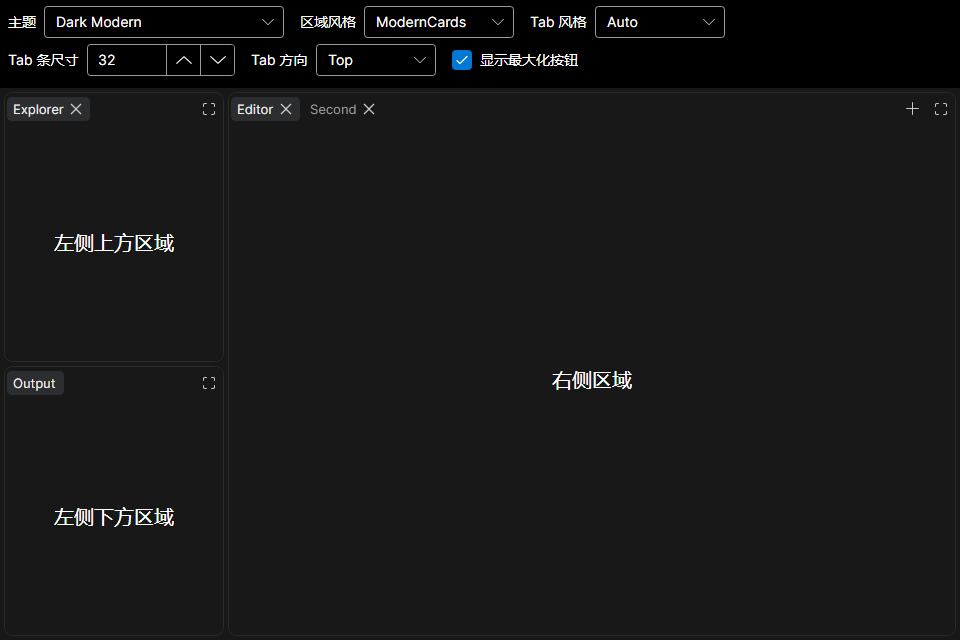
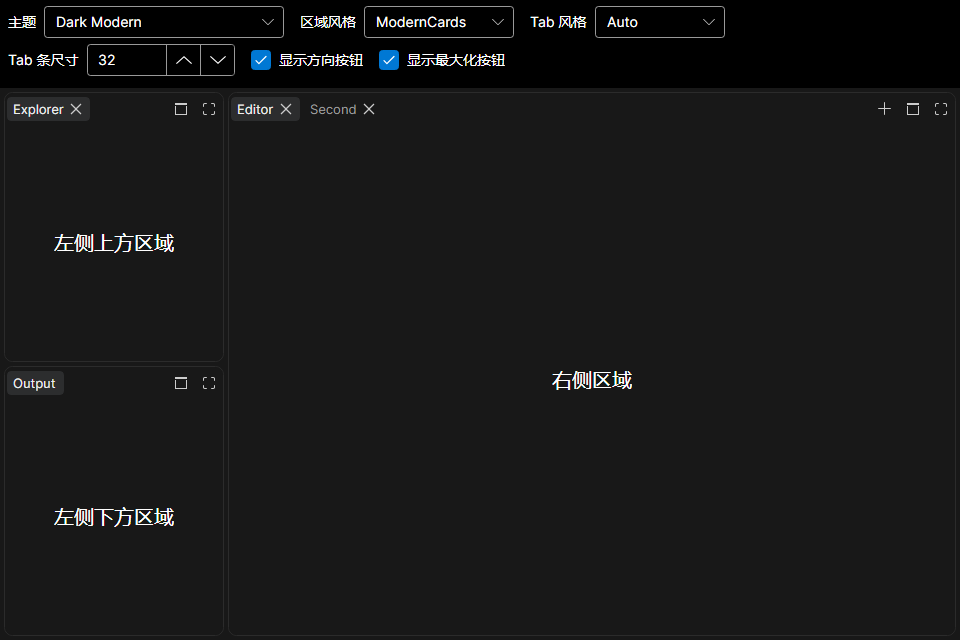
Add trailing tab placement control

Changed region(s): [[0.25, 0.0625, 0.5938, 0.125], [0.9375, 0.1562, 0.9688, 0.1875]]

diff --git a/src/GOZA.Dock/Controls/DockRegion.cs b/src/GOZA.Dock/Controls/DockRegion.cs
@@ -23,6 +23,8 @@ namespace GOZA.Dock.Controls;
 [TemplatePart(PartContentHost, typeof(ContentControl), IsRequired = true)]
 [TemplatePart(PartHeaderHost, typeof(Control), IsRequired = true)]
 [TemplatePart(PartChromeHost, typeof(Control), IsRequired = true)]
+[TemplatePart(PartTabPlacementButton, typeof(DockHeaderButton), IsRequired = true)]
+[TemplatePart(PartTabPlacementIcon, typeof(DockChromeIcon), IsRequired = true)]
 [TemplatePart(PartMaximizeButton, typeof(DockHeaderButton), IsRequired = true)]
 [TemplatePart(PartMaximizeIcon, typeof(DockChromeIcon), IsRequired = true)]
 [TemplatePart(PartDropHint, typeof(Border), IsRequired = true)]
@@ -32,6 +34,8 @@ public sealed class DockRegion : TemplatedControl, IDockRegionSession
     internal const string PartContentHost = "PART_ContentHost";
     internal const string PartHeaderHost = "PART_HeaderHost";
     internal const string PartChromeHost = "PART_ChromeHost";
+    internal const string PartTabPlacementButton = "PART_TabPlacementButton";
+    internal const string PartTabPlacementIcon = "PART_TabPlacementIcon";
     internal const string PartMaximizeButton = "PART_MaximizeButton";
     internal const string PartMaximizeIcon = "PART_MaximizeIcon";
     internal const string PartDropHint = "PART_DropHint";
@@ -86,6 +90,9 @@ public sealed class DockRegion : TemplatedControl, IDockRegionSession
     public static readonly StyledProperty<bool> ShowMaximizeButtonProperty =
         AvaloniaProperty.Register<DockRegion, bool>(nameof(ShowMaximizeButton), true);
 
+    public static readonly StyledProperty<bool> ShowTabPlacementButtonProperty =
+        AvaloniaProperty.Register<DockRegion, bool>(nameof(ShowTabPlacementButton), true);
+
     public static readonly StyledProperty<bool> CanMaximizeProperty =
         AvaloniaProperty.Register<DockRegion, bool>(nameof(CanMaximize), true);
 
@@ -110,6 +117,8 @@ public sealed class DockRegion : TemplatedControl, IDockRegionSession
     private ContentControl? _contentHost;
     private Control? _headerHost;
     private Control? _chromeHost;
+    private DockHeaderButton? _tabPlacementButton;
+    private DockChromeIcon? _tabPlacementIcon;
     private DockHeaderButton? _maximizeButton;
     private DockChromeIcon? _maximizeIcon;
     private Border? _dropHint;
@@ -134,6 +143,8 @@ public sealed class DockRegion : TemplatedControl, IDockRegionSession
         HeaderContentProperty.Changed.AddClassHandler<DockRegion>((region, _) =>
             region.UpdateHeaderState());
         ShowMaximizeButtonProperty.Changed.AddClassHandler<DockRegion>((region, _) =>
+            region.UpdateHeaderState());
+        ShowTabPlacementButtonProperty.Changed.AddClassHandler<DockRegion>((region, _) =>
             region.UpdateHeaderState());
         CanMaximizeProperty.Changed.AddClassHandler<DockRegion>((region, change) =>
             region.OnCanMaximizeChanged(change.NewValue is true));
@@ -253,6 +264,16 @@ public sealed class DockRegion : TemplatedControl, IDockRegionSession
         set => SetValue(ShowMaximizeButtonProperty, value);
     }
 
+    /// <summary>
+    /// Shows the built-in tab-placement action at the trailing edge of the header.
+    /// Clicking it cycles Top, Right, Bottom, and Left. Defaults to true.
+    /// </summary>
+    public bool ShowTabPlacementButton
+    {
+        get => GetValue(ShowTabPlacementButtonProperty);
+        set => SetValue(ShowTabPlacementButtonProperty, value);
+    }
+
     /// <summary>Allows this region to fill its containing <see cref="DockShell"/>.</summary>
     public bool CanMaximize
     {
@@ -304,6 +325,8 @@ public sealed class DockRegion : TemplatedControl, IDockRegionSession
         _contentHost = e.NameScope.Get<ContentControl>(PartContentHost);
         _headerHost = e.NameScope.Get<Control>(PartHeaderHost);
         _chromeHost = e.NameScope.Get<Control>(PartChromeHost);
+        _tabPlacementButton = e.NameScope.Get<DockHeaderButton>(PartTabPlacementButton);
+        _tabPlacementIcon = e.NameScope.Get<DockChromeIcon>(PartTabPlacementIcon);
         _maximizeButton = e.NameScope.Get<DockHeaderButton>(PartMaximizeButton);
         _maximizeIcon = e.NameScope.Get<DockChromeIcon>(PartMaximizeIcon);
         _dropHint = e.NameScope.Get<Border>(PartDropHint);
@@ -634,12 +657,16 @@ public sealed class DockRegion : TemplatedControl, IDockRegionSession
         PseudoClasses.Set(
             ":close-button-selected-or-pointerover",
             CloseButtonDisplayMode == DockTabCloseButtonDisplayMode.SelectedOrPointerOver);
+        UpdateTabPlacementIcon();
     }
 
     private void UpdateHeaderState()
     {
         var hasTabs = GetItemCount() > 0;
-        var hasChrome = ShowAddButton || ShowMaximizeButton || HeaderContent is not null;
+        var hasChrome = ShowAddButton
+                        || ShowTabPlacementButton
+                        || ShowMaximizeButton
+                        || HeaderContent is not null;
         var showHeader = hasTabs || hasChrome;
 
         PseudoClasses.Set(":empty", !hasTabs);
@@ -656,6 +683,8 @@ public sealed class DockRegion : TemplatedControl, IDockRegionSession
 
     private void AttachHeaderCommands()
     {
+        if (_tabPlacementButton is not null)
+            _tabPlacementButton.Click += OnTabPlacementButtonClick;
         if (_maximizeButton is not null)
             _maximizeButton.Click += OnMaximizeButtonClick;
         if (_headerHost is not null)
@@ -666,6 +695,8 @@ public sealed class DockRegion : TemplatedControl, IDockRegionSession
 
     private void DetachHeaderCommands()
     {
+        if (_tabPlacementButton is not null)
+            _tabPlacementButton.Click -= OnTabPlacementButtonClick;
         if (_maximizeButton is not null)
             _maximizeButton.Click -= OnMaximizeButtonClick;
         if (_headerHost is not null)
@@ -676,6 +707,32 @@ public sealed class DockRegion : TemplatedControl, IDockRegionSession
     {
         e.Handled = true;
         ToggleMaximize();
+    }
+
+    private void OnTabPlacementButtonClick(object? sender, Avalonia.Interactivity.RoutedEventArgs e)
+    {
+        e.Handled = true;
+        SetCurrentValue(TabStripPlacementProperty, TabStripPlacement switch
+        {
+            DockTabStripPlacement.Top => DockTabStripPlacement.Right,
+            DockTabStripPlacement.Right => DockTabStripPlacement.Bottom,
+            DockTabStripPlacement.Bottom => DockTabStripPlacement.Left,
+            _ => DockTabStripPlacement.Top
+        });
+    }
+
+    private void UpdateTabPlacementIcon()
+    {
+        if (_tabPlacementIcon is null)
+            return;
+
+        _tabPlacementIcon.Kind = TabStripPlacement switch
+        {
+            DockTabStripPlacement.Right => DockChromeIconKind.TabPlacementRight,
+            DockTabStripPlacement.Bottom => DockChromeIconKind.TabPlacementBottom,
+            DockTabStripPlacement.Left => DockChromeIconKind.TabPlacementLeft,
+            _ => DockChromeIconKind.TabPlacementTop
+        };
     }
 
     private void OnHeaderPointerPressed(object? sender, PointerPressedEventArgs e)

diff --git a/samples/GOZA.Dock.Minimal/MainViewModel.cs b/samples/GOZA.Dock.Minimal/MainViewModel.cs
@@ -16,8 +16,8 @@ public sealed class MainViewModel : INotifyPropertyChanged
     private VsCodeColorTheme? _colorTheme;
     private DockPanePresentation _panePresentation = DockPanePresentation.ClassicSeams;
     private DockTabPresentation _tabPresentation = DockTabPresentation.Auto;
-    private DockTabStripPlacement _tabStripPlacement = DockTabStripPlacement.Top;
     private bool _showMaximizeButton = true;
+    private bool _showTabPlacementButton = true;
     private double _tabStripSize = DockShell.DefaultTabStripSize;
     private int _nextRightTab = 3;
 
@@ -70,9 +70,6 @@ public sealed class MainViewModel : INotifyPropertyChanged
 
     public IReadOnlyList<DockTabPresentation> TabPresentations { get; } =
         Enum.GetValues<DockTabPresentation>();
-
-    public IReadOnlyList<DockTabStripPlacement> TabStripPlacements { get; } =
-        Enum.GetValues<DockTabStripPlacement>();
 
     public ICommand AddRightTabCommand { get; }
 
@@ -135,20 +132,6 @@ public sealed class MainViewModel : INotifyPropertyChanged
         }
     }
 
-    /// <summary>Applies one tab-strip direction to every region in the minimal sample.</summary>
-    public DockTabStripPlacement TabStripPlacement
-    {
-        get => _tabStripPlacement;
-        set
-        {
-            if (_tabStripPlacement == value)
-                return;
-
-            _tabStripPlacement = value;
-            OnPropertyChanged();
-        }
-    }
-
     public bool ShowMaximizeButton
     {
         get => _showMaximizeButton;
@@ -158,6 +141,19 @@ public sealed class MainViewModel : INotifyPropertyChanged
                 return;
 
             _showMaximizeButton = value;
+            OnPropertyChanged();
+        }
+    }
+
+    public bool ShowTabPlacementButton
+    {
+        get => _showTabPlacementButton;
+        set
+        {
+            if (_showTabPlacementButton == value)
+                return;
+
+            _showTabPlacementButton = value;
             OnPropertyChanged();
         }
     }

diff --git a/src/GOZA.Dock/Controls/DockChromeIcon.cs b/src/GOZA.Dock/Controls/DockChromeIcon.cs
@@ -13,6 +13,10 @@ public enum DockChromeIconKind
     Close,
     Maximize,
     Restore,
+    TabPlacementTop,
+    TabPlacementRight,
+    TabPlacementBottom,
+    TabPlacementLeft,
 }
 
 /// <summary>Small vector icon used by the default dock chrome.</summary>
@@ -66,6 +70,16 @@ public sealed class DockChromeIcon : TemplatedControl
         "C2 5.77614 2.22386 6 2.5 6 H4 C5.10457 6 6 5.10457 6 4 V2.5 " +
         "C6 2.22386 5.77614 2 5.5 2 C5.22386 2 5 2.22386 5 2.5 Z");
 
+    // Compact editor frames with the current tab-strip edge drawn two pixels thick.
+    private static readonly Geometry TabPlacementTopGeometry = Geometry.Parse(
+        "M2 2 H14 V4 H2 Z M2 5 H3 V14 H2 Z M13 5 H14 V14 H13 Z M3 13 H13 V14 H3 Z");
+    private static readonly Geometry TabPlacementRightGeometry = Geometry.Parse(
+        "M12 2 H14 V14 H12 Z M2 2 H11 V3 H3 V13 H11 V14 H2 Z");
+    private static readonly Geometry TabPlacementBottomGeometry = Geometry.Parse(
+        "M2 12 H14 V14 H2 Z M2 2 H14 V3 H3 V11 H2 Z M13 3 H14 V11 H13 Z");
+    private static readonly Geometry TabPlacementLeftGeometry = Geometry.Parse(
+        "M2 2 H4 V14 H2 Z M5 2 H14 V14 H5 V13 H13 V3 H5 Z");
+
     private PathShape? _path;
 
     static DockChromeIcon()
@@ -97,6 +111,10 @@ public sealed class DockChromeIcon : TemplatedControl
                 DockChromeIconKind.Close => CloseGeometry,
                 DockChromeIconKind.Maximize => MaximizeGeometry,
                 DockChromeIconKind.Restore => RestoreGeometry,
+                DockChromeIconKind.TabPlacementTop => TabPlacementTopGeometry,
+                DockChromeIconKind.TabPlacementRight => TabPlacementRightGeometry,
+                DockChromeIconKind.TabPlacementBottom => TabPlacementBottomGeometry,
+                DockChromeIconKind.TabPlacementLeft => TabPlacementLeftGeometry,
                 _ => AddGeometry,
             };
         }

diff --git a/docs/3.0.6/api-reference.md b/docs/3.0.6/api-reference.md
@@ -115,6 +115,7 @@ One tab region. It owns selection, view realization, tab drag/drop, and close re
 | `TabClosedCommand` | `ICommand?` | `null` | **Notification after the fact.** The library has already removed the tab and evicted its cached view; the command parameter is the closed `IDockTabItem`. |
 | `CanDragTabs` | `bool` | `true` | `false` detaches the gesture controller: tabs can still be selected and closed, but not reordered or moved. Toggling at runtime re-attaches/detaches immediately. |
 | `ShowMaximizeButton` | `bool` | `true` | Shows the built-in maximize/restore button at the trailing edge. |
+| `ShowTabPlacementButton` | `bool` | `true` | Shows the trailing-edge placement button. Each click cycles `Top → Right → Bottom → Left`. |
 | `CanMaximize` | `bool` | `true` | Allows the region to fill its containing shell. |
 | `DoubleClickHeaderToMaximize` | `bool` | `true` | Toggles maximize from an empty-header double click. |
 | `ShowHeaderBodySeparator` | `bool` | `false` | Keeps the full one-pixel divider between the selected header and body. |
@@ -122,7 +123,7 @@ One tab region. It owns selection, view realization, tab drag/drop, and close re
 
 Inherited and themed by default: `Background` (`DockPaneBackgroundBrush`), `BorderBrush`, `BorderThickness`, `CornerRadius`.
 
-Header chrome is anchored to the trailing edge. Its visual order is: per-tab close button, remaining tab strip, Add, `HeaderContent`, then maximize/restore at the outer edge. For vertical strips the same order runs toward the bottom. Add remains opt-in because the library cannot construct an application-specific tab without an `AddTabCommand`.
+Header chrome is anchored to the trailing edge. Its visual order is: per-tab close button, remaining tab strip, Add, `HeaderContent`, tab placement, then maximize/restore at the outer edge. For vertical strips the same order runs toward the bottom. Add remains opt-in because the library cannot construct an application-specific tab without an `AddTabCommand`.
 
 ### Methods
 
@@ -229,7 +230,7 @@ public DockTabStripPlacement ToolPlacement { get; set; } = DockTabStripPlacement
 | `:vertical` | placement is `Left` or `Right` |
 | `:empty` | no tabs |
 | `:has-tabs` | at least one tab |
-| `:has-chrome` | `ShowAddButton` is `true` or `HeaderContent` is set |
+| `:has-chrome` | Add, placement, maximize, or custom header chrome is visible |
 
 The header host is hidden entirely when a region has neither tabs nor chrome, so an empty region reads as a plain panel:
 
@@ -432,7 +433,12 @@ Its own template contains a `LayoutTransformControl` (`PART_HeaderTransform`) so
 ## DockChromeIcon
 
 ```csharp
-public enum DockChromeIconKind { Add, Close }
+public enum DockChromeIconKind
+{
+    Add, Close, Maximize, Restore,
+    TabPlacementTop, TabPlacementRight,
+    TabPlacementBottom, TabPlacementLeft
+}
 
 [TemplatePart("PART_Icon", typeof(Path), IsRequired = true)]
 public sealed class DockChromeIcon : TemplatedControl

diff --git a/docs/3.0.6/zh-CN/api-reference.md b/docs/3.0.6/zh-CN/api-reference.md
@@ -115,6 +115,7 @@ public sealed class DockRegion : TemplatedControl, IDockRegionSession
 | `TabClosedCommand` | `ICommand?` | `null` | **事后通知**——库已经完成了移除和缓存清理；命令参数是被关闭的 `IDockTabItem`。 |
 | `CanDragTabs` | `bool` | `true` | 设为 `false` 时拆掉手势控制器：仍可选中/关闭，但不能重排和跨区移动。运行时切换会立即重新挂载/拆除。 |
 | `ShowMaximizeButton` | `bool` | `true` | 在尾端显示内置最大化/还原按钮。 |
+| `ShowTabPlacementButton` | `bool` | `true` | 在尾端显示 Tab 位置按钮；每次点击按 `Top → Right → Bottom → Left` 循环。 |
 | `CanMaximize` | `bool` | `true` | 是否允许 Region 填满所属 Shell。 |
 | `DoubleClickHeaderToMaximize` | `bool` | `true` | 双击 Header 空白区域时切换最大化。 |
 | `ShowHeaderBodySeparator` | `bool` | `false` | 是否在选中 Header 与 Body 之间保留完整 1px 分隔线。 |
@@ -122,7 +123,7 @@ public sealed class DockRegion : TemplatedControl, IDockRegionSession
 
 主题默认提供：`Background`（`DockPaneBackgroundBrush`）、`BorderBrush`、`BorderThickness`、`CornerRadius`。
 
-Header Chrome 固定在尾端，视觉顺序为：各 Tab 内关闭按钮、剩余 Tab 条、Add、`HeaderContent`、最外侧最大化/还原。垂直 Tab 条沿相同顺序排向底端。Add 仍需显式开启，因为没有 `AddTabCommand` 时库无法构造应用自己的 Tab。
+Header Chrome 固定在尾端，视觉顺序为：各 Tab 内关闭按钮、剩余 Tab 条、Add、`HeaderContent`、Tab 位置、最外侧最大化/还原。垂直 Tab 条沿相同顺序排向底端。Add 仍需显式开启，因为没有 `AddTabCommand` 时库无法构造应用自己的 Tab。
 
 ### 方法
 
@@ -231,7 +232,7 @@ public DockTabStripPlacement ToolPlacement { get; set; } = DockTabStripPlacement
 | `:vertical` | 位置为 `Left` 或 `Right` |
 | `:empty` | 没有 Tab |
 | `:has-tabs` | 至少一个 Tab |
-| `:has-chrome` | `ShowAddButton = true` 或 `HeaderContent` 非空 |
+| `:has-chrome` | Add、Tab 位置、最大化或自定义 Header Chrome 可见 |
 
 当 region 既无 Tab 也无 Chrome 时，头部宿主会被完全隐藏，因此空 region 看上去就是一块面板：
 
@@ -438,7 +439,12 @@ public sealed class DockTabHeader : TemplatedControl
 ## DockChromeIcon
 
 ```csharp
-public enum DockChromeIconKind { Add, Close }
+public enum DockChromeIconKind
+{
+    Add, Close, Maximize, Restore,
+    TabPlacementTop, TabPlacementRight,
+    TabPlacementBottom, TabPlacementLeft
+}
 
 [TemplatePart("PART_Icon", typeof(Path), IsRequired = true)]
 public sealed class DockChromeIcon : TemplatedControl

diff --git a/docs/3.0.6/theming.md b/docs/3.0.6/theming.md
@@ -75,10 +75,14 @@ Title **font scales** with this value (`13 × strip/32`); horizontal padding sta
 
 Set an explicit value to combine either tab style with either pane style. Classic tabs consume the standard VS Code keys `editorGroupHeader.tabsBackground`, `editorGroupHeader.tabsBorder`, `tab.activeBackground`, `tab.inactiveBackground`, `tab.activeForeground`, `tab.inactiveForeground`, `tab.hoverBackground`, `tab.hoverForeground`, `tab.border`, `tab.activeBorder`, and `tab.activeBorderTop`.
 
-Non-closable classic tabs use balanced 10px horizontal title insets. Closable tabs use a 10px leading inset plus the 28px close-action lane. Header actions stay pinned to the trailing edge in the order Add → custom `HeaderContent` → maximize/restore.
+Non-closable classic tabs use balanced 10px horizontal title insets. Closable tabs use a 10px leading inset plus the 28px close-action lane. Header actions stay pinned to the trailing edge in the order Add → custom `HeaderContent` → tab placement → maximize/restore.
 
 | ClassicSeams + Auto (default) | ModernCards + Auto |
 |---|---|
 | ![Classic seam and classic tab presentation](../../images/3.0.6/classic-tabs.png) | ![Modern card presentation](../../images/3.0.6/modern-cards.png) |
+
+Vertical classic tabs keep the 32px strip metric, rotate only the tab header content, and pin Add → placement → maximize controls to the bottom edge:
+
+![Classic vertical tab presentation](../../images/3.0.6/classic-tabs-vertical.png)
 
 You can still override the same keys manually in `DockShell.Resources` (`DockTabHeight`, …) — see [DOCK-THEMING.zh-CN.md](https://github.com/0use-TE/GOZA.Dock/blob/master/DOCK-THEMING.zh-CN.md).

diff --git a/docs/3.0.6/zh-CN/theming.md b/docs/3.0.6/zh-CN/theming.md
@@ -72,10 +72,14 @@ JSON 缺少 `type` 时查 [`VsCodeThemeTypeMap`](https://github.com/0use-TE/GOZA
 
 显式指定后，两种 Tab 风格都能与任一区域风格组合。经典 Tab 直接使用标准 VS Code 键：`editorGroupHeader.tabsBackground`、`editorGroupHeader.tabsBorder`、`tab.activeBackground`、`tab.inactiveBackground`、`tab.activeForeground`、`tab.inactiveForeground`、`tab.hoverBackground`、`tab.hoverForeground`、`tab.border`、`tab.activeBorder`、`tab.activeBorderTop`。
 
-不可关闭的经典 Tab 使用对称的 10px 左右标题留白；可关闭 Tab 使用 10px 起始留白和 28px 关闭操作区。Header 操作固定在尾端，顺序为 Add → 自定义 `HeaderContent` → 最大化/还原。
+不可关闭的经典 Tab 使用对称的 10px 左右标题留白；可关闭 Tab 使用 10px 起始留白和 28px 关闭操作区。Header 操作固定在尾端，顺序为 Add → 自定义 `HeaderContent` → Tab 位置 → 最大化/还原。
 
 | ClassicSeams + Auto（默认） | ModernCards + Auto |
 |---|---|
 | ![经典直缝与经典 Tab 模式](../../../images/3.0.6/classic-tabs.png) | ![现代卡片区域模式](../../../images/3.0.6/modern-cards.png) |
+
+经典垂直 Tab 保持 32px 条宽，仅旋转 Tab Header 内容，并把 Add → 位置 → 最大化操作固定到底部边缘：
+
+![经典垂直 Tab 模式](../../../images/3.0.6/classic-tabs-vertical.png)
 
 也可继续在 `DockShell.Resources` 里覆写同名键，见 [DOCK-THEMING.zh-CN.md](https://github.com/0use-TE/GOZA.Dock/blob/master/DOCK-THEMING.zh-CN.md)。

diff --git a/docs/3.0.6/release-notes.md b/docs/3.0.6/release-notes.md
@@ -9,7 +9,7 @@
 - Added runtime `DockShell.PanePresentation` switching between `ModernCards` and VS Code-style `ClassicSeams`, without recreating tabs or views. `ClassicSeams` is the default.
 - Added runtime `DockShell.TabPresentation`: `ClassicTabs` reproduces the legacy VS Code full-height rectangular tab strip, `ModernPills` retains the rounded style, and the default `Auto` follows the pane presentation. Both tab styles can be paired with either pane style.
 - Added `DockShell.SashSize`, defaulting to a shared 12px mouse, pen, and touch hit target without widening the visible boundary.
-- The built-in maximize/restore action is now visible by default. The minimal sample exposes tab direction and maximize visibility, uses a responsive wrapping settings bar, and keeps the tab-size editor fully readable.
+- The built-in maximize/restore and tab-placement actions are now visible by default. The placement action lives at each region's trailing edge and cycles all four edges. The minimal sample exposes both visibility switches, uses a truly constrained wrapping settings bar, and keeps the tab-size editor fully readable.
 - Balanced the trailing inset of non-closable classic tabs while retaining the VS Code 28px close-action lane for closable tabs.
 
 ---

diff --git a/docs/3.0.6/zh-CN/release-notes.md b/docs/3.0.6/zh-CN/release-notes.md
@@ -9,7 +9,7 @@
 - 新增 `DockShell.PanePresentation`，可在 `ModernCards` 与 VS Code 风格的 `ClassicSeams` 之间运行时切换，且不会重建 Tab 或 View；默认采用 `ClassicSeams`。
 - 新增运行时 `DockShell.TabPresentation`：`ClassicTabs` 复刻旧版 VS Code 满高矩形 Tab 条，`ModernPills` 保留圆角风格，默认 `Auto` 跟随区域模式；两种 Tab 均可与任一区域模式组合。
 - 新增 `DockShell.SashSize`，鼠标、触控笔和手指共用默认 12px 命中区，同时不加宽可见边界。
-- 内置最大化/还原按钮改为默认显示。Minimal 示例新增 Tab 方向与最大化按钮开关，设置栏支持自适应换行，Tab 尺寸编辑器保持完整可见。
+- 内置最大化/还原与 Tab 位置按钮改为默认显示。位置按钮固定在各 Region 尾端并循环四个边缘；Minimal 示例提供两个显示开关，设置栏按真实可用宽度换行，Tab 尺寸编辑器保持完整可见。
 - 经典模式下不可关闭 Tab 的左右留白改为平衡布局；可关闭 Tab 仍保留 VS Code 的 28px 关闭操作区。
 
 ---

diff --git a/docs/3.0.6/zh-CN/recipes.md b/docs/3.0.6/zh-CN/recipes.md
@@ -233,7 +233,7 @@ public void ToggleMaximizeCenter(Grid grid)
 </DockRegion>
 ```
 
-`HeaderContent` 排在 Tab 和 Add 按钮之后；在 `Left` / `Right` region 中，Chrome 栈会自动转纵向。
+`HeaderContent` 排在 Tab 和 Add 按钮之后，内置 Tab 位置与最大化操作继续排在尾端；可通过 `ShowTabPlacementButton="False"` 或 `ShowMaximizeButton="False"` 分别关闭。在 `Left` / `Right` Region 中，Chrome 栈会自动转为纵向并固定在底部。
 
 如果 `HeaderContent` 放的是 ViewModel 而非已构建好的 `Control`，用 `HeaderContentTemplate` 来投影——Chrome 宿主的 `ContentPresenter` 已经把 `ContentTemplate` 绑定到 `HeaderContentTemplate`：
 
